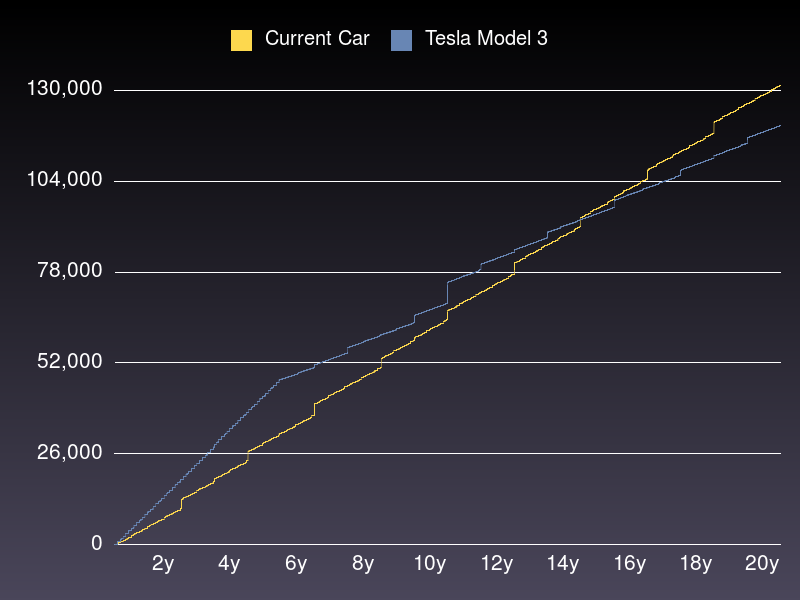
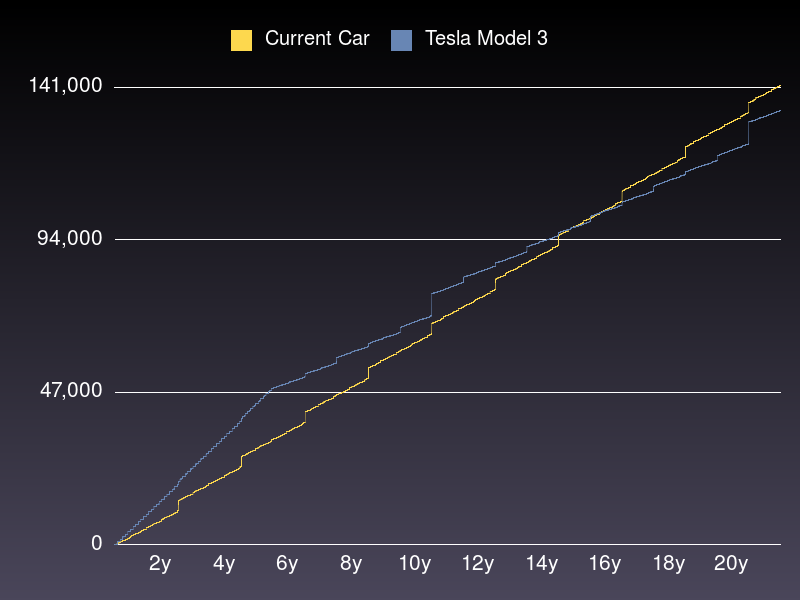
updated cost estimates

diff --git a/shouldi.rb b/shouldi.rb
@@ -24,7 +24,7 @@ current_car_events = [
   },
   {
     name: 'new tires',
-    frequency: 3*365,
+    frequency: 2*365,
     cost: 600,
     starts_after: 0,
     stops_after: 9999999
@@ -76,8 +76,8 @@ tesla_car_events = [
   },
   {
     name: 'new tires',
-    frequency: 3*365,
-    cost: 600,
+    frequency: 2*365,
+    cost: 800,
     starts_after: 0,
     stops_after: 9999999
   },
@@ -134,7 +134,7 @@ def run_simulation(events, max_years)
   return data
 end
 
-max_years=20
+max_years=21
 g = Gruff::Line.new
 
 glabels = {}
